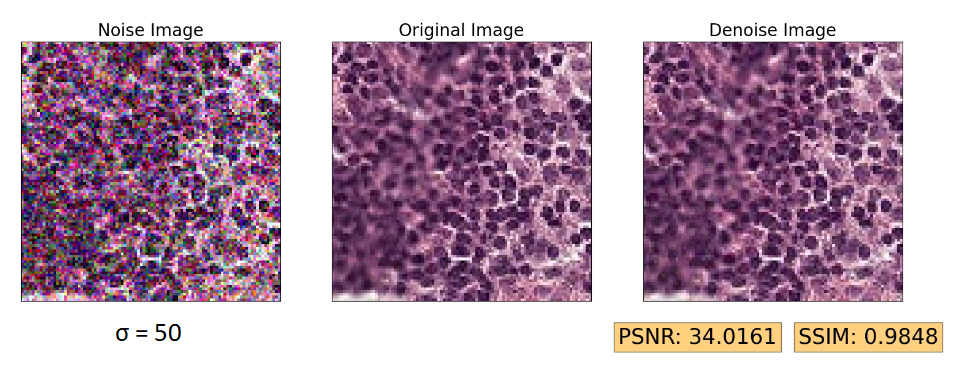
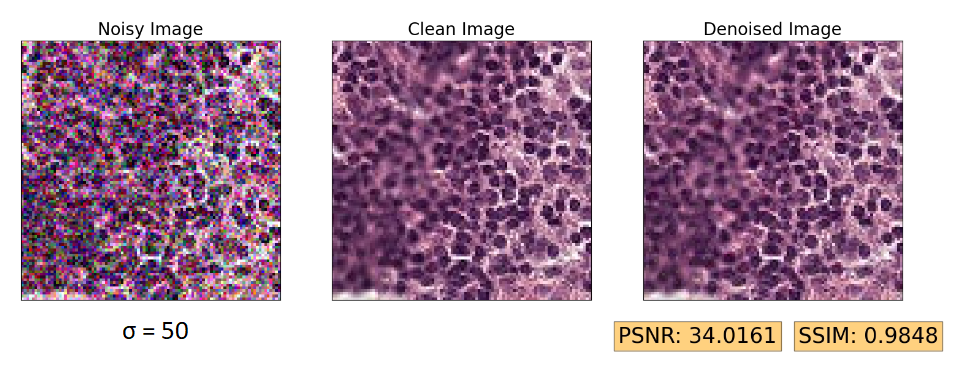
Updated denoised_2.png and singleImageTester.py
singleImageTester.py was to change the output of matplotlib labels of the images

From:
Noise Image
Original Image
Denoise Image

To:
Noisy Image
Clean Image
Denoised Image

diff --git a/Code/Util/singleImageTester.py b/Code/Util/singleImageTester.py
@@ -22,19 +22,19 @@ def loadImage(file):
 #########      Please state the name of the files     #########
 #########        you want to use for testing          #########
 ###################      EXAMPLES     #########################
-###							    ###
+###															###
 ###        cleanImagePath = "testSample_10/1_clean.tif"     ###
 ###        noiseImagePath = "testSample_10/1_noise.tif"     ###
-###							    ###
+###															###
 ###        cleanImagePath = "testSample_25/2_clean.tif"     ###
 ###        noiseImagePath = "testSample_25/2_noise.tif"     ###
-###							    ###
+###															###
 ###        cleanImagePath = "testSample_50/3_clean.tif"     ###
 ###        noiseImagePath = "testSample_50/3_noise.tif"     ###
-###							    ###
+###															###
 ###        cleanImagePath = "testSample_10/4_clean.tif"     ###
 ###        noiseImagePath = "testSample_10/4_noise.tif"     ###
-###							    ###
+###															###
 ###############################################################
 
 
@@ -92,7 +92,7 @@ print("PSNR: {:.6f}    SSIM: {:.6f}".format(psnr,ssim))
 plt.figure(figsize=(50,50))
 ## Noise
 ax = plt.subplot(1,3,1)
-ax.set_title("Noise Image", fontsize=20)
+ax.set_title("Noisy Image", fontsize=20)
 plt.imshow(noise)
 plt.gray()
 ax.get_xaxis().set_visible(False)
@@ -100,7 +100,7 @@ ax.get_yaxis().set_visible(False)
 
 ## Original
 ax = plt.subplot(1,3,2)
-ax.set_title("Original Image", fontsize=20)
+ax.set_title("Clean Image", fontsize=20)
 plt.imshow(clean)
 plt.gray()
 ax.get_xaxis().set_visible(False)
@@ -108,7 +108,7 @@ ax.get_yaxis().set_visible(False)
 
 ## Denoise
 ax = plt.subplot(1,3,3)
-ax.set_title("Denoise Image", fontsize=20)
+ax.set_title("Denoised Image", fontsize=20)
 plt.imshow(denoised)
 plt.gray()
 ax.get_xaxis().set_visible(False)
